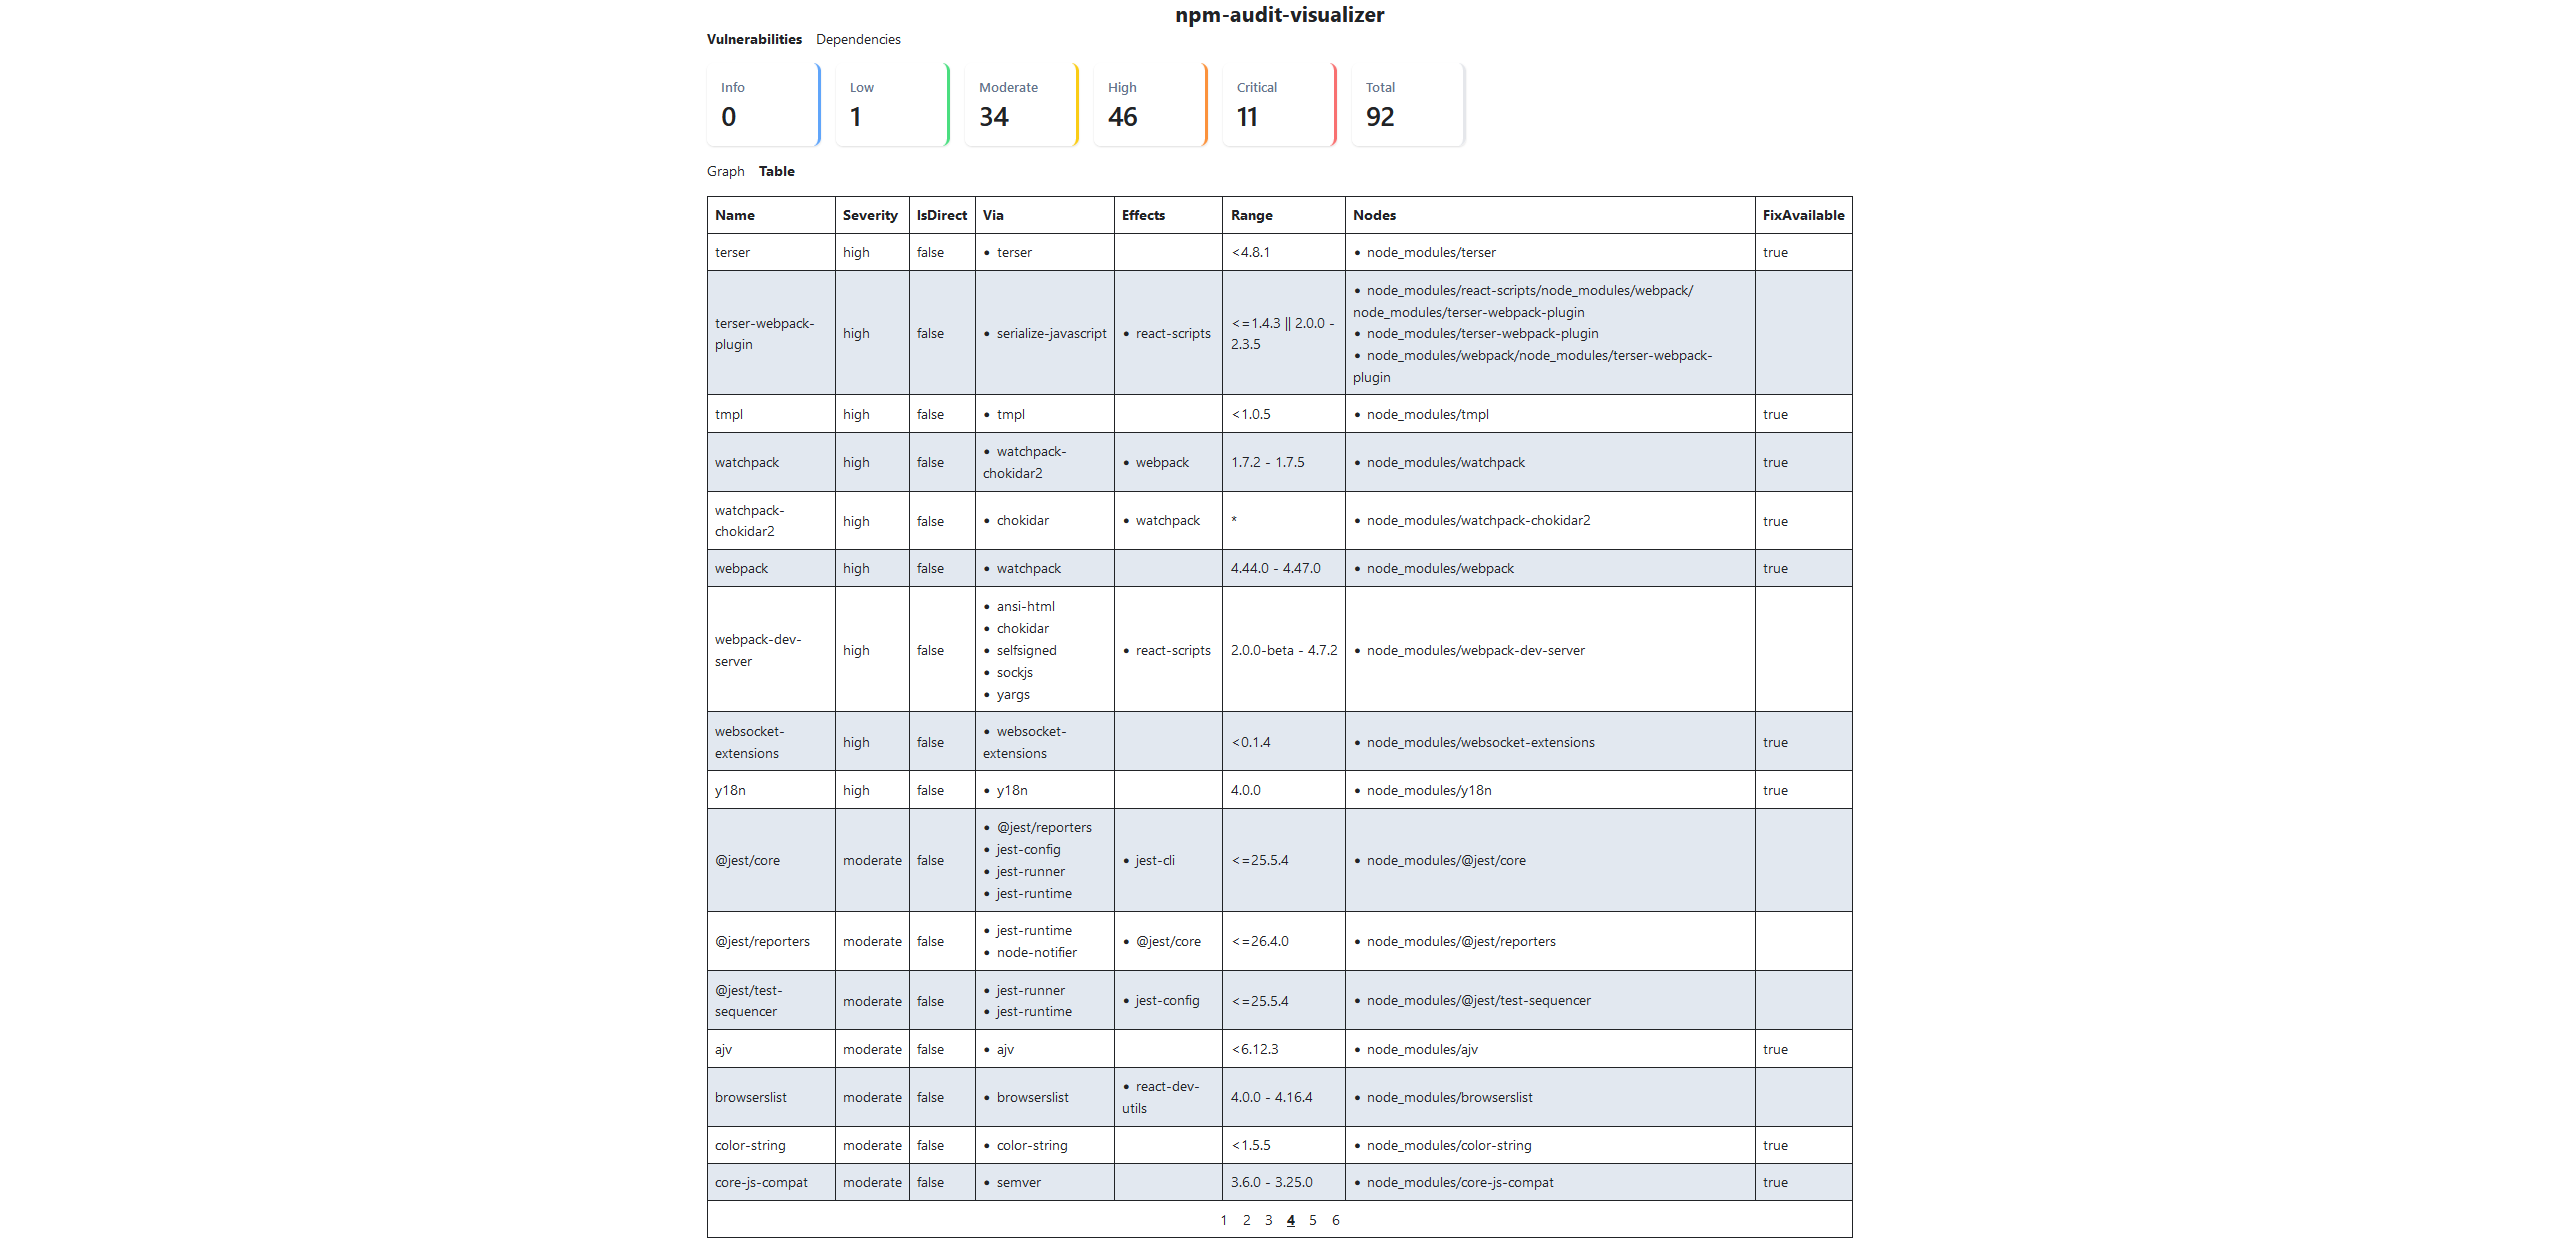
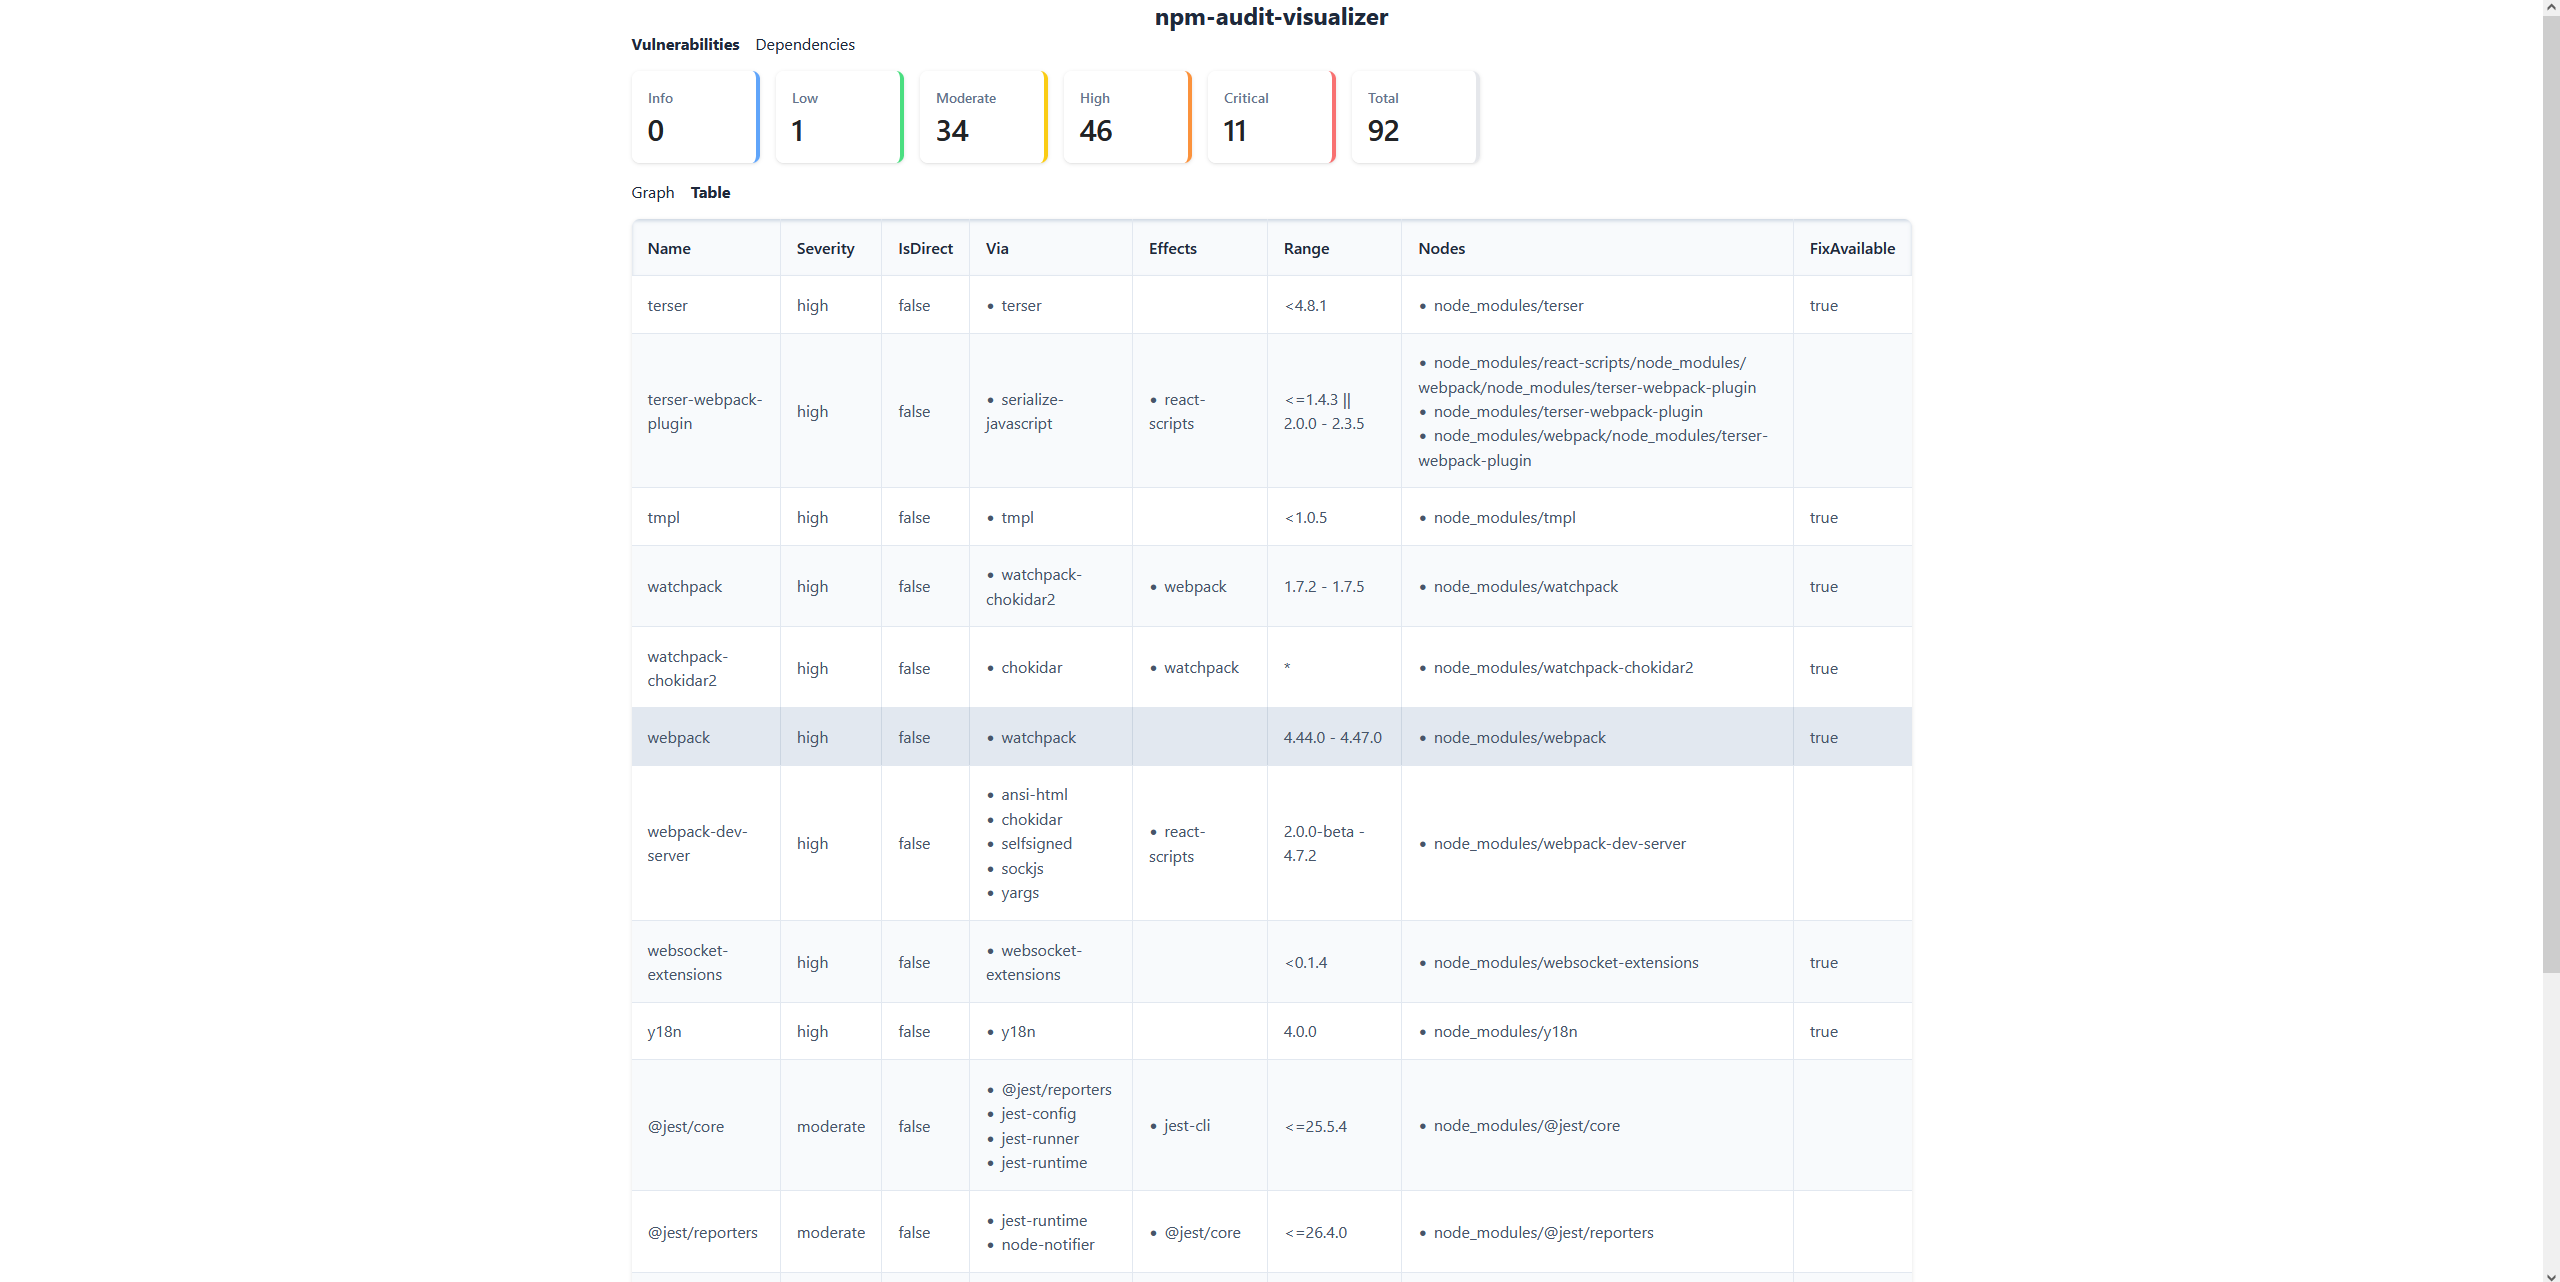
Update table visualizer styles (#16)
* update text & shadow color
* update third preview in readme

diff --git a/src/modules/WebApp/src/components/Visualizer/VulnerabilityTable/index.tsx b/src/modules/WebApp/src/components/Visualizer/VulnerabilityTable/index.tsx
@@ -19,8 +19,8 @@ export default function TableComponent(props: TableComponentProps) {
     Object.keys(VulnerabilitySchema.shape).length - hiddenColumns.length;
 
   return (
-    <div className="my-4 | overflow-x-auto">
-      <table className="table-auto overflow-scroll w-full border border-dark border-collapse">
+    <div className="my-4 | overflow-x-auto shadow rounded-lg">
+      <table className="table-auto overflow-scroll min-w-full divide-y divide-slate-200">
         <TableHeader hiddenColumns={hiddenColumns} />
         <TableBody
           data={data}
@@ -55,7 +55,7 @@ const TableHeader = (props: TableHeaderProps) => {
         <th
           key={heading}
           scope="col"
-          className="p-2 text-left capitalize border border-dark"
+          className="p-4 text-left capitalize font-semibold text-slate-800"
         >
           {heading}
         </th>
@@ -64,8 +64,8 @@ const TableHeader = (props: TableHeaderProps) => {
   );
 
   return (
-    <thead className="sticky top-0">
-      <tr className="border border-dark">{columnHeadings}</tr>
+    <thead className="bg-slate-50 shadow-inner shadow-slate-300">
+      <tr className="divide-x divide-slate-200">{columnHeadings}</tr>
     </thead>
   );
 };
@@ -95,7 +95,7 @@ const TableBody = (props: TableBodyProps) => {
       return <TableRow key={`row-${vulnerability.id}`} columns={columns} />;
     });
 
-  return <tbody>{rows}</tbody>;
+  return <tbody className="divide-y divide-slate-200 bg-white">{rows}</tbody>;
 };
 
 type TableRowProps = {
@@ -106,7 +106,16 @@ type TableRowProps = {
 const TableRow = (props: TableRowProps) => {
   const { columns, className } = props;
 
-  return <tr className={clsx("even:bg-slate-200", className)}>{columns}</tr>;
+  return (
+    <tr
+      className={clsx(
+        "even:bg-slate-50 hover:bg-slate-200 divide-x divide-slate-200 hover:divide-slate-300",
+        className,
+      )}
+    >
+      {columns}
+    </tr>
+  );
 };
 
 type TableColumnProps = {
@@ -153,7 +162,7 @@ const TableColumn = (props: TableColumnProps) => {
   }
 
   return (
-    <td className={clsx("p-2 border border-dark list-inside", className)}>
+    <td className={clsx("p-4 list-inside text-slate-600", className)}>
       {dataElement}
     </td>
   );

diff --git a/src/modules/WebApp/index.html b/src/modules/WebApp/index.html
@@ -5,7 +5,7 @@
     <meta name="viewport" content="width=device-width, initial-scale=1.0" />
     <title>npm audit visualizer</title>
   </head>
-  <body class="bg-white text-dark">
+  <body class="bg-white text-slate-800">
     <div id="root" class="min-w-[800px] max-w-[1280px] mx-auto"></div>
     <script type="module" src="/src/main.tsx"></script>
   </body>

diff --git a/src/modules/WebApp/src/components/Visualizer/VulnerabilityGraph/index.tsx b/src/modules/WebApp/src/components/Visualizer/VulnerabilityGraph/index.tsx
@@ -29,7 +29,7 @@ export default function GraphComponent(props: GraphComponentProps) {
 
   return (
     <SigmaContainer
-      className="my-4 | shadow-inner"
+      className="my-4 | shadow-inner shadow-slate-200"
       style={{ width: "100%", height: "1024px", borderRadius: "4px" }}
       settings={{
         allowInvalidContainer: true,

diff --git a/CHANGELOG.md b/CHANGELOG.md
@@ -6,6 +6,12 @@ The format is based on [Keep a Changelog](https://keepachangelog.com/en/1.1.0/),
 and this project adheres to [Semantic
 Versioning](https://semver.org/spec/v2.0.0.html).
 
+## [v1.0.0-alpha.7] - 2024-06-02
+
+### Changed
+
+- Updated styles of table visualizer
+
 ## [v1.0.0-alpha.6] - 2024-06-02
 
 ### Added
@@ -119,6 +125,7 @@ Versioning](https://semver.org/spec/v2.0.0.html).
 
 - First Release
 
+[v1.0.0-alpha.7]: https://github.com/nrednav/npm-audit-visualizer/compare/v1.0.0-alpha.6...v1.0.0-alpha.7
 [v1.0.0-alpha.6]: https://github.com/nrednav/npm-audit-visualizer/compare/v1.0.0-alpha.5...v1.0.0-alpha.6
 [v1.0.0-alpha.5]: https://github.com/nrednav/npm-audit-visualizer/compare/v1.0.0-alpha.4...v1.0.0-alpha.5
 [v1.0.0-alpha.4]: https://github.com/nrednav/npm-audit-visualizer/compare/v1.0.0-alpha.3...v1.0.0-alpha.4
